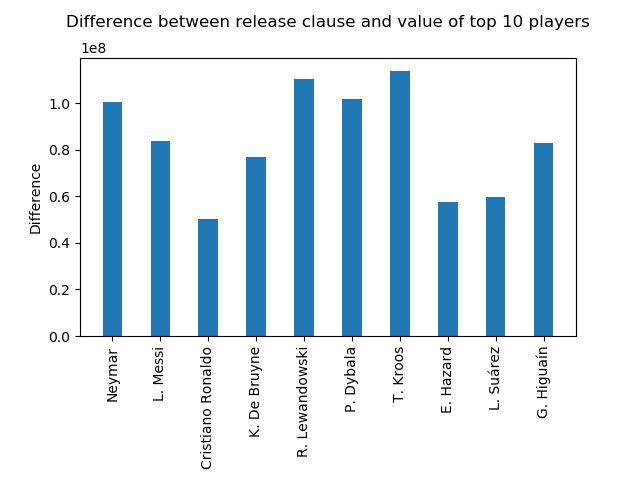
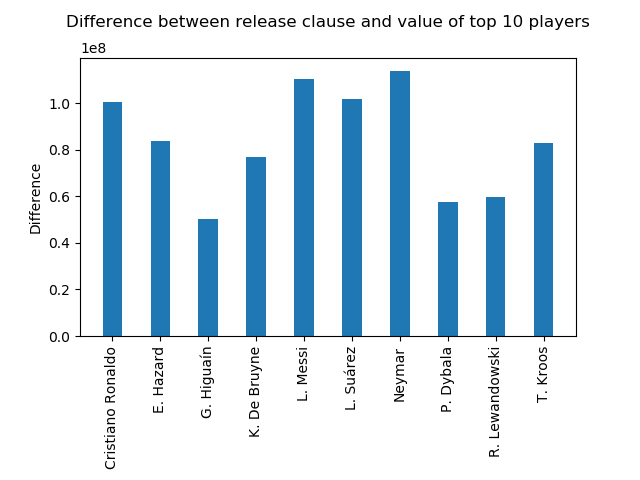
Fixed plot in question 3

diff --git a/assignment_3/fifa_questions.py b/assignment_3/fifa_questions.py
@@ -98,7 +98,7 @@ def question_2():
     plt.xticks(rotation=90)
     plt.xticks(labels)
     plt.ylabel("Players")
-    plt.savefig("fifa_question_2.png")
+    plt.show()
 
 
 # What is the difference between the release clause and the value of the top 10 most valuable players?
@@ -115,11 +115,12 @@ def question_3():
                          name in zip(sorted_by_value[:, 18], sorted_by_value[:, 16], sorted_by_value[:, 1])])
 
     # Extract the names from the tuple and put them into a list
-    player_names = [name[0] for name in differences]
+    player_names = np.asarray([name[0] for name in differences])
 
+    print(player_names)
     # Extract the calculated differences for each player, cast them to ints and put them into a list
     player_differences = [int(dif[1]) for dif in differences]
-
+    print(player_differences)
     # Plot a bar diagram with the player names as X-values, and the differences as Y-values
     plt.bar(player_names, player_differences,
             width=0.4, linewidth=0, align='center')
@@ -129,7 +130,7 @@ def question_3():
     plt.subplots_adjust(bottom=0.3)
 
     plt.title(title, fontsize=12, y=1.08)
-    plt.xticks(player_names, rotation=90)
+    plt.xticks(rotation=90)
     plt.ylabel("Difference")
     plt.show()
 
@@ -189,8 +190,8 @@ def question_5():
     print("On average, the value of a player is equivalent to {} times his estimated yearly salary".format(round(av_players_value/av_players_yearly_wage, 2)))
  
 
-#question_1()
+question_1()
 question_2()
-#question_3()
-#question_4()
-#question_5()
+question_3()
+question_4()
+question_5()
